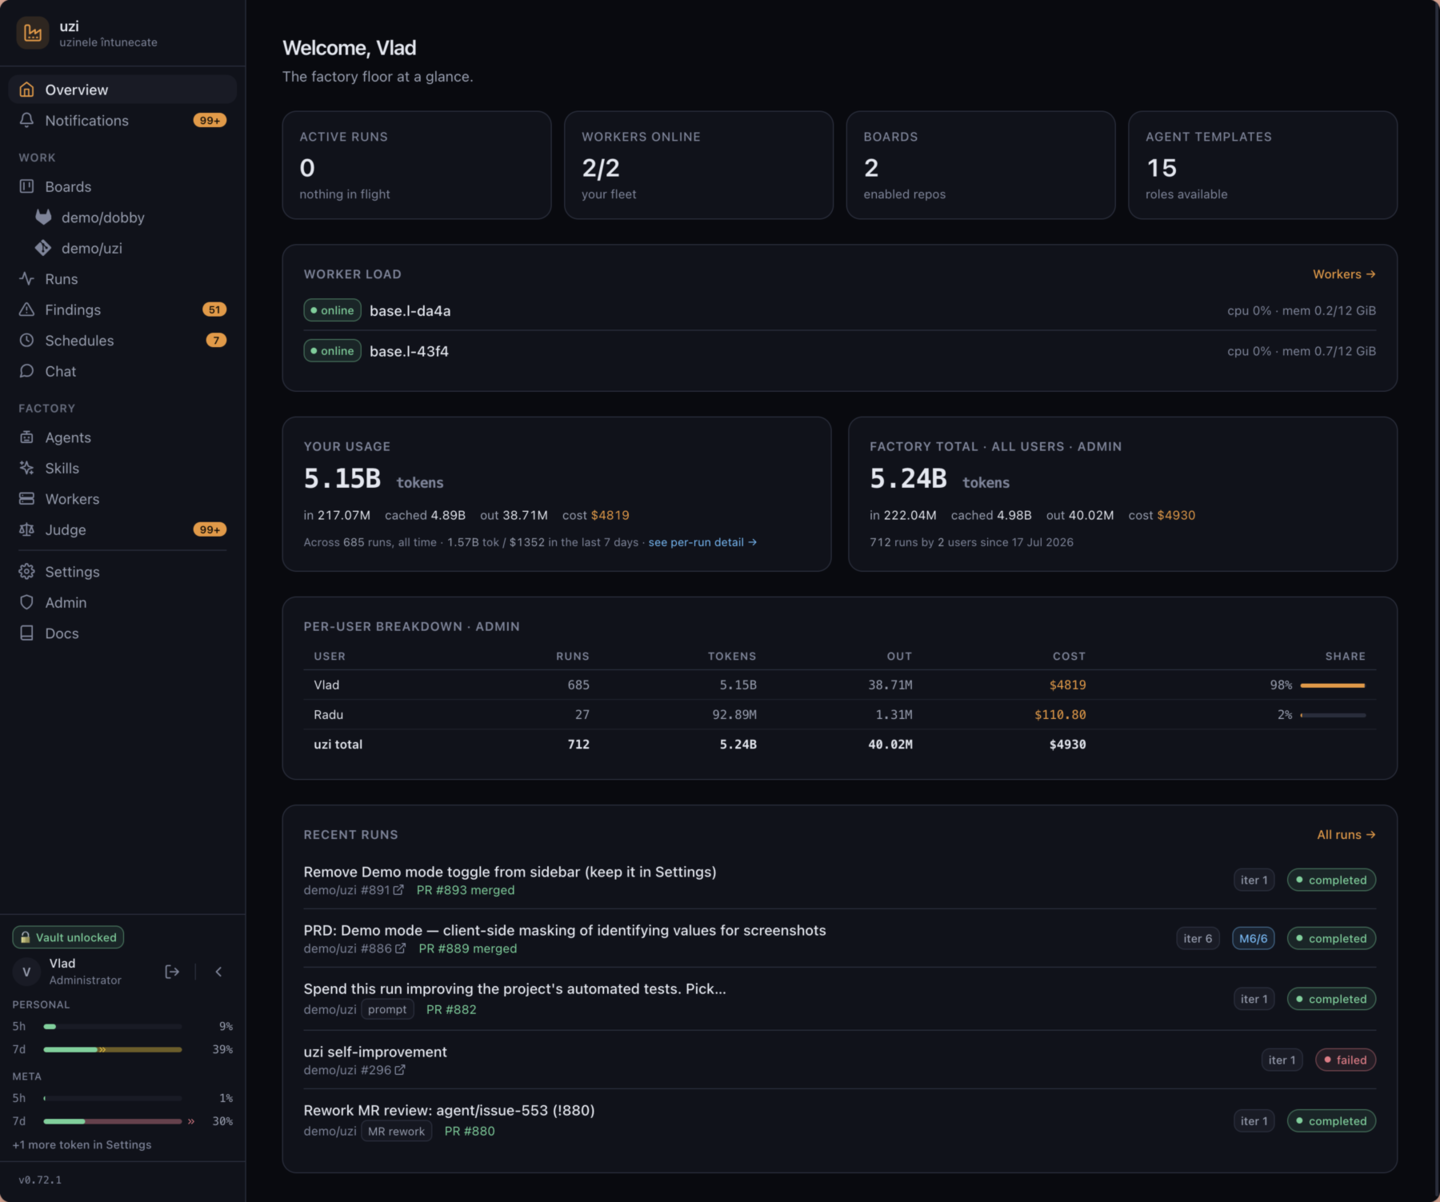
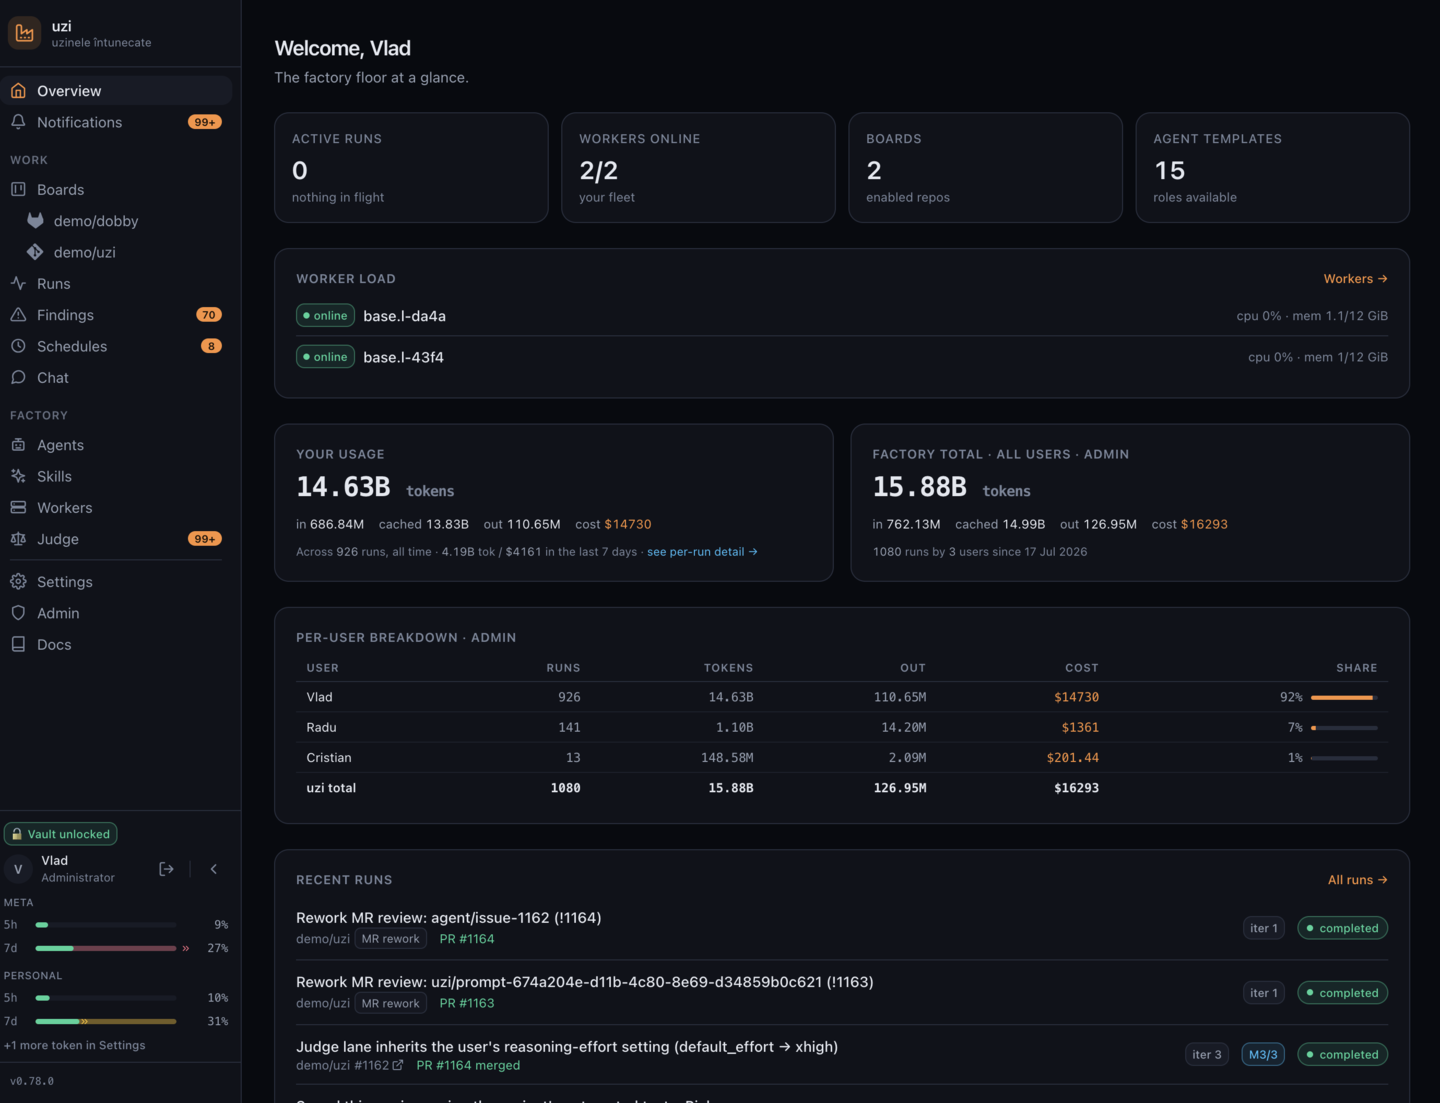
docs(readme): refresh dashboard/schedules shots and usage totals
- update the dashboard and schedules screenshots to the current v0.78 UI
  (demo-masked), replacing the stale v0.72 versions whose in-image numbers
  no longer matched the text
- bump the usage line to over 1,000 runs and over 15 billion tokens

diff --git a/README.md b/README.md
@@ -216,7 +216,7 @@ GitLab, GitHub, and Forgejo sit behind one driver. GitLab and GitHub are the pat
 
 ## Status: alpha (and uzi builds uzi)
 
-Treat it as **alpha**. Features land often, refactors happen often, and breaking changes are on the table. But it is not a toy: it is stable and it works well day to day, having already completed roughly 700 runs and spent over 5 billion tokens getting here.
+Treat it as **alpha**. Features land often, refactors happen often, and breaking changes are on the table. But it is not a toy: it is stable and it works well day to day, having already completed over 1,000 runs and spent over 15 billion tokens getting here.
 
 And the fun part: **uzi builds uzi**. A growing share of it is written by itself. I file the issues, it plans, implements, and opens the PRs, so the factory is quietly assembling its own next version while I review.
 
